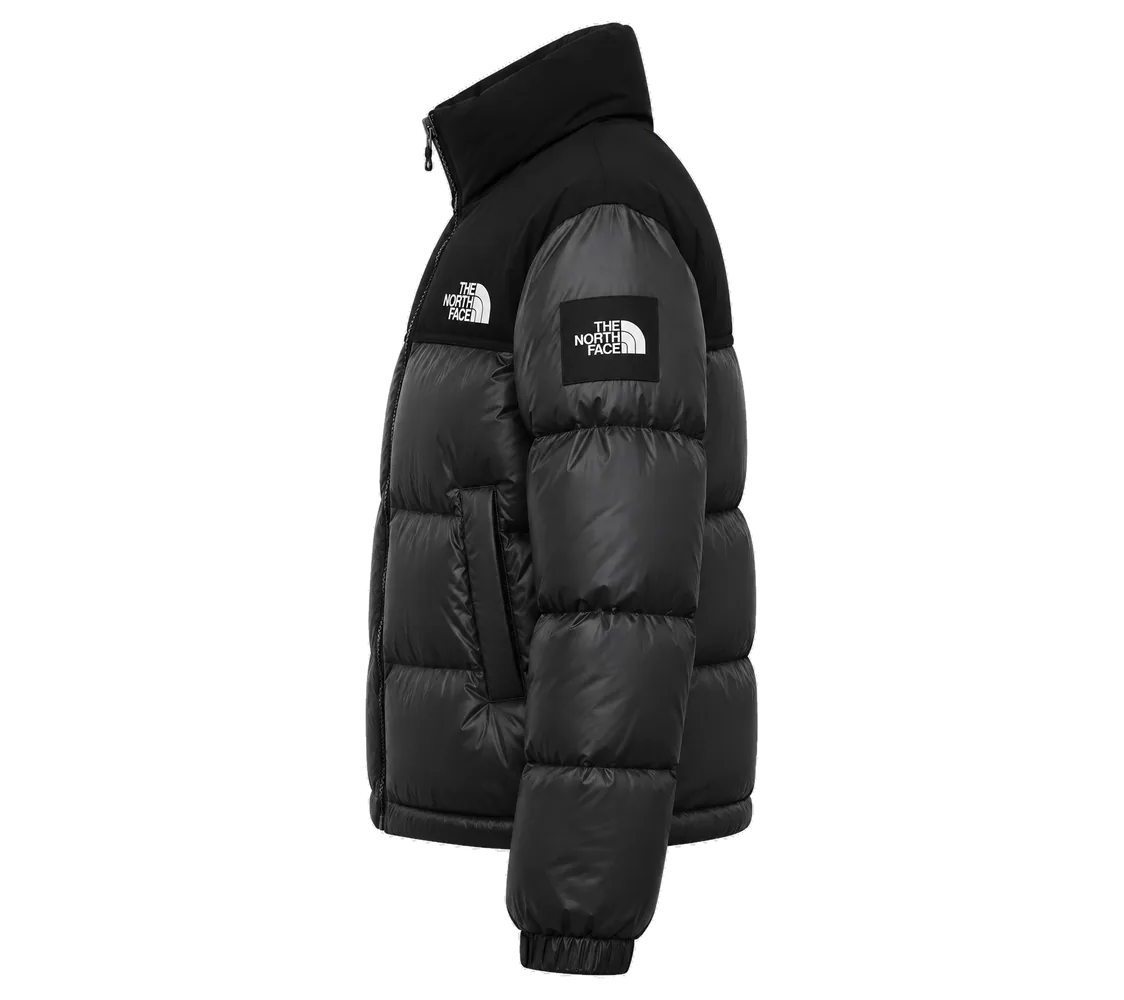
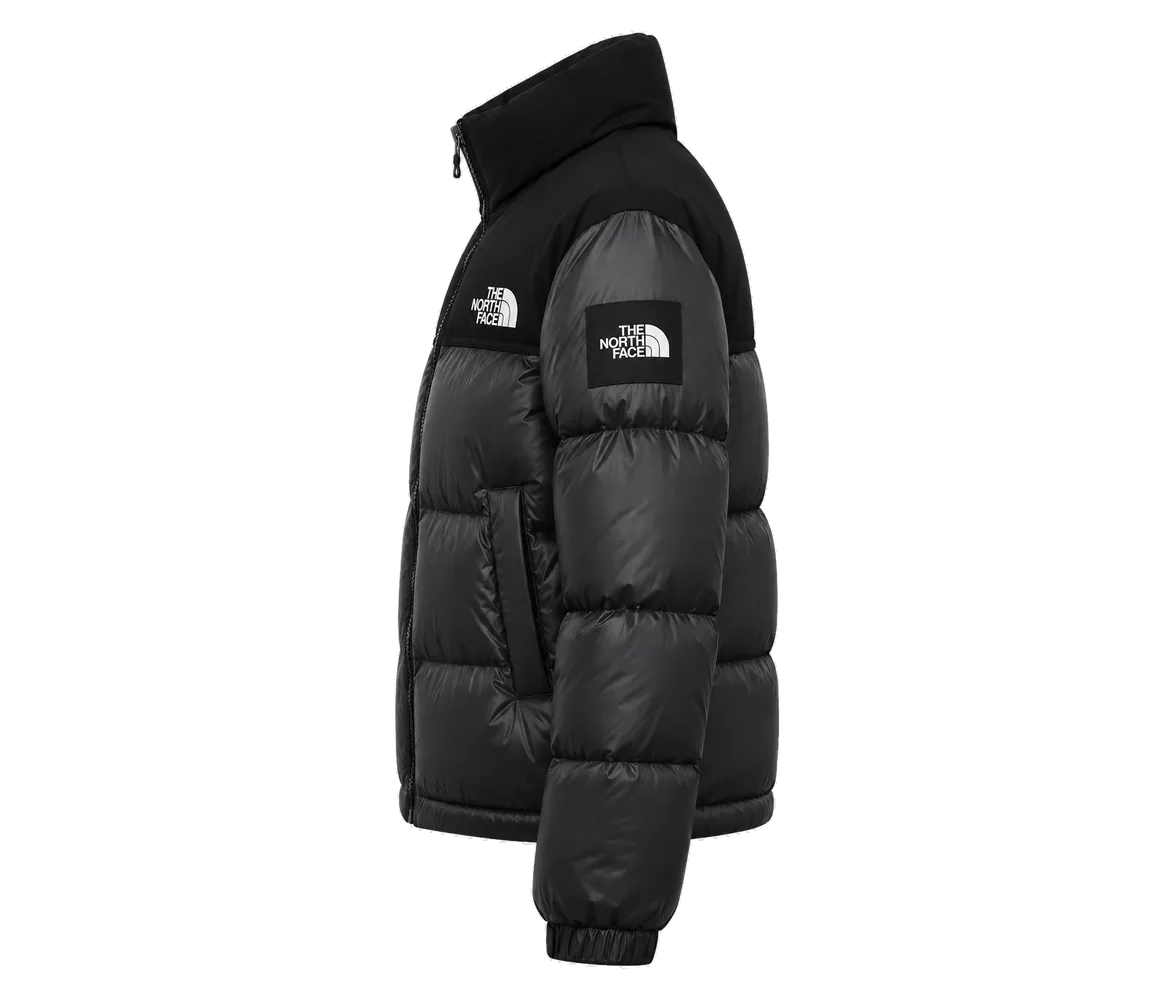
fix(hero): hang every jacket at the same size
Seven jackets, 37% apart on the same rail — the cream one towering over the
teal. Nothing was wrong with the photos. The rail contains each one inside a
box of fixed shape, so what sets how tall a jacket hangs is the shape of its
canvas, and the catalogue cut-outs are cropped tight to garments posed
differently: 0.89 through 1.21.

Every rail photo now goes on a canvas whose width is 1.25x the garment's own
height, front and side alike. That makes the garment the same fraction of every
canvas, so all seven draw at one height whatever their proportions, and each
piece keeps that height as it turns. 1.25 is set by the widest front (1.21) —
below that the widest jacket would be squeezed by the canvas edge instead.

The shop's own product images are untouched; the grid and the cards still use
them. These are rail copies, <slug>-rail.webp beside each front.

Two bugs in the fitting the rail does for itself, both of which left it
standing in a 218px hole:

  Measurements were keyed by position and cleared whenever the item list
  changed. A cached photo is complete before mount effects run, so its
  measurement arrived first and was then thrown away, with nothing to send
  another. They are keyed by the photo's own src now and never cleared.

  A cached photo never fires load at all — React attaches the handler after the
  browser is already done. The measurement is taken on mount as well.

The stage also now counts every face a piece can show, not just the front,
[…]

diff --git a/web/components/ui/product-rail-gallery.tsx b/web/components/ui/product-rail-gallery.tsx
@@ -507,15 +507,18 @@ function Photo({ src, alt, full, onFit }: { src: string; alt: string; full: bool
   // in a hole. Measuring the loaded photo lets the stage close that gap; see
   // `fits` in ClothingRailHero. A pre-padded portrait cut-out reports 1 and
   // nothing changes.
-  const report = (event: React.SyntheticEvent<HTMLImageElement>) => {
-    if (!onFit) return;
-    const { naturalWidth: w, naturalHeight: h } = event.currentTarget;
+  const measure = (node: HTMLImageElement | null) => {
+    if (!onFit || !node) return;
+    const { naturalWidth: w, naturalHeight: h } = node;
     if (!w || !h) return;
     const contained = Math.min(1, ASPECT / (w / h));
     onFit(full ? contained : 0.08 + 0.92 * contained);
   };
+  // Measured on load AND on mount: a photo already in the browser's cache is
+  // complete before React attaches anything, so its load event never fires and
+  // the measurement would never arrive.
   // eslint-disable-next-line @next/next/no-img-element
-  return <img src={src} alt={alt} draggable={false} onLoad={report} className={`pointer-events-none absolute inset-x-0 bottom-0 size-auto w-full select-none object-contain object-top ${full ? "top-0 h-full" : "top-[8%] h-[92%]"}`} />;
+  return <img src={src} alt={alt} draggable={false} ref={measure} onLoad={(e) => measure(e.currentTarget)} className={`pointer-events-none absolute inset-x-0 bottom-0 size-auto w-full select-none object-contain object-top ${full ? "top-0 h-full" : "top-[8%] h-[92%]"}`} />;
 }
 
 type Sim = {
@@ -569,17 +572,18 @@ export function ClothingRailHero({
   const [reduced, setReduced] = React.useState(false);
   const [playing, setPlaying] = React.useState(autoplay);
   const [lifted, setLifted] = React.useState(null as number | null);
-  // Per item, the share of the 200 x 310 canvas its photo really covers.
-  // Unknown until the photo loads, so each starts at the full canvas and only
-  // ever shrinks — the rail never jumps taller once it has settled.
-  const [fits, setFits] = React.useState([] as number[]);
-  const reportFit = React.useCallback((i: number, fraction: number) => {
+  // The share of the 200 x 310 canvas each photo really covers, keyed by the
+  // photo's own src. Keyed by src rather than by position because a cached
+  // photo fires onLoad before mount effects run: anything that cleared this on
+  // mount would throw that measurement away and never be sent another, and the
+  // rail would go on sizing itself to the whole canvas. Unknown means the full
+  // canvas, and a measurement only ever shrinks it, so the rail never grows
+  // taller once it has settled.
+  const [fits, setFits] = React.useState({} as Record<string, number>);
+  const reportFit = React.useCallback((src: string, fraction: number) => {
     setFits((old) => {
-      if ((old[i] ?? 1) <= fraction + 0.001) return old;
-      const next = old.slice();
-      next.length = Math.max(next.length, i + 1);
-      next[i] = fraction;
-      return next;
+      if ((old[src] ?? 1) <= fraction + 0.001) return old;
+      return { ...old, [src]: fraction };
     });
   }, []);
   const returnFocus = React.useRef(null as number | null);
@@ -600,8 +604,6 @@ export function ClothingRailHero({
   }, []);
 
   React.useEffect(() => { setPlaying(autoplay); }, [autoplay]);
-
-  React.useEffect(() => { setFits([]); }, [items]);
 
   React.useLayoutEffect(() => {
     const stage = stageRef.current;
@@ -945,8 +947,15 @@ export function ClothingRailHero({
   const boxW = h * ASPECT;
   const railY = Math.round(h * 0.07) + 10;
   const railR = Math.max(3, Math.round((RAIL_R / VB_H) * h * 10) / 10);
+  // The stage stops at the tallest photo actually drawn, not at the canvas.
+  // Both faces count: a piece resting in profile and the same piece turned to
+  // the front can be cropped differently.
   const bottom = count
-    ? Math.max(...items.map((item, i) => (item.image ? VB_H * (fits[i] ?? 1) : SIDE[item.kind ?? "tee"].hem + 8))) / VB_H
+    ? Math.max(...items.map((item) => {
+        if (!item.image) return SIDE[item.kind ?? "tee"].hem + 8;
+        const faces = [item.image, item.backImage, item.sideImage].filter(Boolean) as string[];
+        return VB_H * Math.max(...faces.map((src) => fits[src] ?? 1));
+      })) / VB_H
     : 1;
 
   return (
@@ -1023,7 +1032,7 @@ export function ClothingRailHero({
                 {(item.sideImage || !item.image) && (
                   <span ref={(node) => { sides.current[i] = node; }} data-face="side" className="absolute inset-0" style={{ transform: `perspective(${PERSPECTIVE}px) rotateY(0deg)` }}>
                     <SideHanger uid={uid} material={hanger} />
-                    {item.sideImage ? <Photo src={item.sideImage} alt="" full={hanger === "none"} onFit={(f) => reportFit(i, f)} /> : <SideArt uid={uid} kind={kind} color={color} trim={trim} />}
+                    {item.sideImage ? <Photo src={item.sideImage} alt="" full={hanger === "none"} onFit={(f) => reportFit(item.sideImage!, f)} /> : <SideArt uid={uid} kind={kind} color={color} trim={trim} />}
                   </span>
                 )}
                 <span ref={(node) => { turns.current[i] = node; }} data-turn className="absolute inset-0 rounded-lg [transform-style:preserve-3d]" style={{ transform: `perspective(${PERSPECTIVE}px) rotateY(${REST}deg)`, opacity: item.image && !item.sideImage ? 1 : 0 }}>
@@ -1032,7 +1041,7 @@ export function ClothingRailHero({
                       <Hanger uid={uid} side={side} kind={item.image ? null : kind} material={hanger} />
                       <span ref={side === "front" ? (node) => { drapes.current[i] = node; } : undefined} data-drape className="absolute inset-0 origin-top [transform:skewX(var(--drape,0deg))]" style={side === "back" ? { transform: "skewX(calc(var(--drape, 0deg) * -1))" } : undefined}>
                         {item.image
-                          ? <Photo src={(side === "back" ? item.backImage : undefined) ?? item.image} alt="" full={hanger === "none"} onFit={(f) => reportFit(i, f)} />
+                          ? <Photo src={(side === "back" ? item.backImage : undefined) ?? item.image} alt="" full={hanger === "none"} onFit={(f) => reportFit(((side === "back" ? item.backImage : undefined) ?? item.image)!, f)} />
                           : <Fabric uid={uid} kind={kind} side={side} color={color} trim={trim} />}
                         <span ref={side === "front" ? (node) => { shades.current[i] = node; } : undefined} className={`pointer-events-none absolute bg-black ${item.image ? photoBox : "inset-0"}`} style={{ opacity: "var(--shade, 0.2)", WebkitMask: `${item.image ? `url("${(side === "back" ? item.backImage : undefined) ?? item.image}")` : silhouetteMask(kind, side)} top center / contain no-repeat`, mask: `${item.image ? `url("${(side === "back" ? item.backImage : undefined) ?? item.image}")` : silhouetteMask(kind, side)} top center / contain no-repeat` }} />
                       </span>

diff --git a/web/lib/hero-side-shots.ts b/web/lib/hero-side-shots.ts
@@ -1,16 +1,24 @@
-// Products that have a side-on photo to go with their front cut-out.
+// Products that have been photographed for the hero rail.
 //
-// The hero rail turns a piece from side to front. Without a side photo it has
-// to fake one by rotating the front shot away from the viewer, which for a flat
-// cut-out is a thin sliver — recognisable as nothing at all. With one, the
-// piece hangs the way it would on a real rail and turns to face you.
+// Each one carries two extra images beside its catalogue photo:
 //
-// The two photos are a matched pair: `<slug>.webp` and `<slug>-side.webp` are
-// cropped to the same aspect so the jacket keeps its size through the turn.
-// Adding a side shot means putting the file next to its front in
-// /public/products and adding the slug here — a slug with no file would hang an
-// empty hook, so this list is explicit rather than guessed from the name.
-export const SIDE_SHOTS = new Set([
+//   <slug>-rail.webp   the front, re-canvassed for the rail
+//   <slug>-side.webp   the side, so it can hang in profile and turn to face you
+//
+// Both are needed, and the front has to be a rail copy rather than the
+// catalogue photo. The rail contains each photo inside a box of fixed shape, so
+// what decides how tall a jacket hangs is the shape of its canvas — and the
+// catalogue cut-outs are cropped tight to garments posed differently, which put
+// the jackets 37% apart on the same rail. The rail copies all share one canvas
+// shape, so every piece hangs the same height and keeps that height as it turns.
+//
+// The catalogue photos are untouched; the grid and the product cards still use
+// them.
+//
+// Adding a piece to the rail means generating both files and adding the slug
+// here. The list is explicit rather than guessed from the name: a slug with no
+// files behind it would hang an empty hook.
+export const RAIL_SHOTS = new Set([
   "tnf-nuptse-blush-black",
   "tnf-nuptse-charcoal-black",
   "tnf-nuptse-cream-camel",
@@ -20,10 +28,17 @@ export const SIDE_SHOTS = new Set([
   "tnf-nuptse-teal-petrol",
 ]);
 
-/** The side photo for a product, or undefined when it has none. */
-export function sideShotFor(slug: string, image?: string): string | undefined {
-  if (!SIDE_SHOTS.has(slug)) return undefined;
-  // Derived from the front's own path so the two never point at different
-  // folders if the images ever move.
-  return image?.replace(/\.webp$/, "-side.webp") ?? `/products/${slug}-side.webp`;
+/** Kept under the old name so nothing that only cares about "has a side" breaks. */
+export const SIDE_SHOTS = RAIL_SHOTS;
+
+export type RailShots = { image?: string; sideImage?: string };
+
+/**
+ * The pair of rail photos for a product. Falls back to the catalogue photo on
+ * its own, which still hangs — just face-on, and sized to its own crop.
+ */
+export function railShotsFor(slug: string, image?: string): RailShots {
+  if (!RAIL_SHOTS.has(slug)) return { image };
+  const base = `/products/${slug}`;
+  return { image: `${base}-rail.webp`, sideImage: `${base}-side.webp` };
 }

diff --git a/web/app/[lang]/page.tsx b/web/app/[lang]/page.tsx
@@ -14,7 +14,7 @@ import { BrandMarquee } from "./_components/BrandMarquee";
 import { HeroEditorial } from "./_components/HeroEditorial";
 import { HeroRail } from "./_components/HeroRail";
 import { PromoBanner } from "./_components/PromoBanner";
-import { SIDE_SHOTS } from "@/lib/hero-side-shots";
+import { RAIL_SHOTS } from "@/lib/hero-side-shots";
 import { TrendingSection } from "./_components/TrendingSection";
 import { Testimonials3D } from "./_components/Testimonials3D";
 import { tFor, type Lang } from "@/lib/i18n";
@@ -74,8 +74,8 @@ export default async function HomePage({ params }: { params: { lang: Lang } }) {
     // without can only show its front shot edge-on, which is a sliver. Put the
     // photographed ones on the rail first and only pad with the rest if there
     // are too few to fill it.
-    const withSide = coats.filter(p => SIDE_SHOTS.has(p.slug));
-    const ordered = withSide.length >= 5 ? withSide : [...withSide, ...coats.filter(p => !SIDE_SHOTS.has(p.slug))];
+    const withSide = coats.filter(p => RAIL_SHOTS.has(p.slug));
+    const ordered = withSide.length >= 5 ? withSide : [...withSide, ...coats.filter(p => !RAIL_SHOTS.has(p.slug))];
     const byBrand = new Map<string, Product[]>();
     for (const p of ordered) {
       const list = byBrand.get(p.category) ?? [];

diff --git a/web/app/[lang]/_components/HeroRail.tsx b/web/app/[lang]/_components/HeroRail.tsx
@@ -4,7 +4,7 @@ import { orDefault, urlOrDefault } from "@/lib/cms-text";
 import type { HomepageCms } from "@/lib/medusa";
 import type { Product } from "@/lib/types";
 import { money } from "@/lib/api";
-import { sideShotFor } from "@/lib/hero-side-shots";
+import { railShotsFor } from "@/lib/hero-side-shots";
 import { tFor, type Lang } from "@/lib/i18n";
 
 /* ---------------------------------------------------------------------------
@@ -59,10 +59,11 @@ export function HeroRail({
       id: p.slug,
       name: p.name,
       description: p.shortDesc,
-      image: p.image,
-      // Shown while the piece rests on the rail. Without it the rail turns the
-      // front shot away instead, which for a flat cut-out is a bare sliver.
-      sideImage: sideShotFor(p.slug, p.image),
+      // The rail copies, not the catalogue photos: they share one canvas shape,
+      // which is what makes every piece hang the same height and keep it while
+      // turning. `sideImage` is what lets it hang in profile at all — without
+      // one the rail turns the front shot away, a bare sliver for a cut-out.
+      ...railShotsFor(p.slug, p.image),
       tag: money(p.price),
       color: p.accent,
       details: [p.category, p.fabric, ...p.sizes.slice(0, 3)].filter(Boolean),
